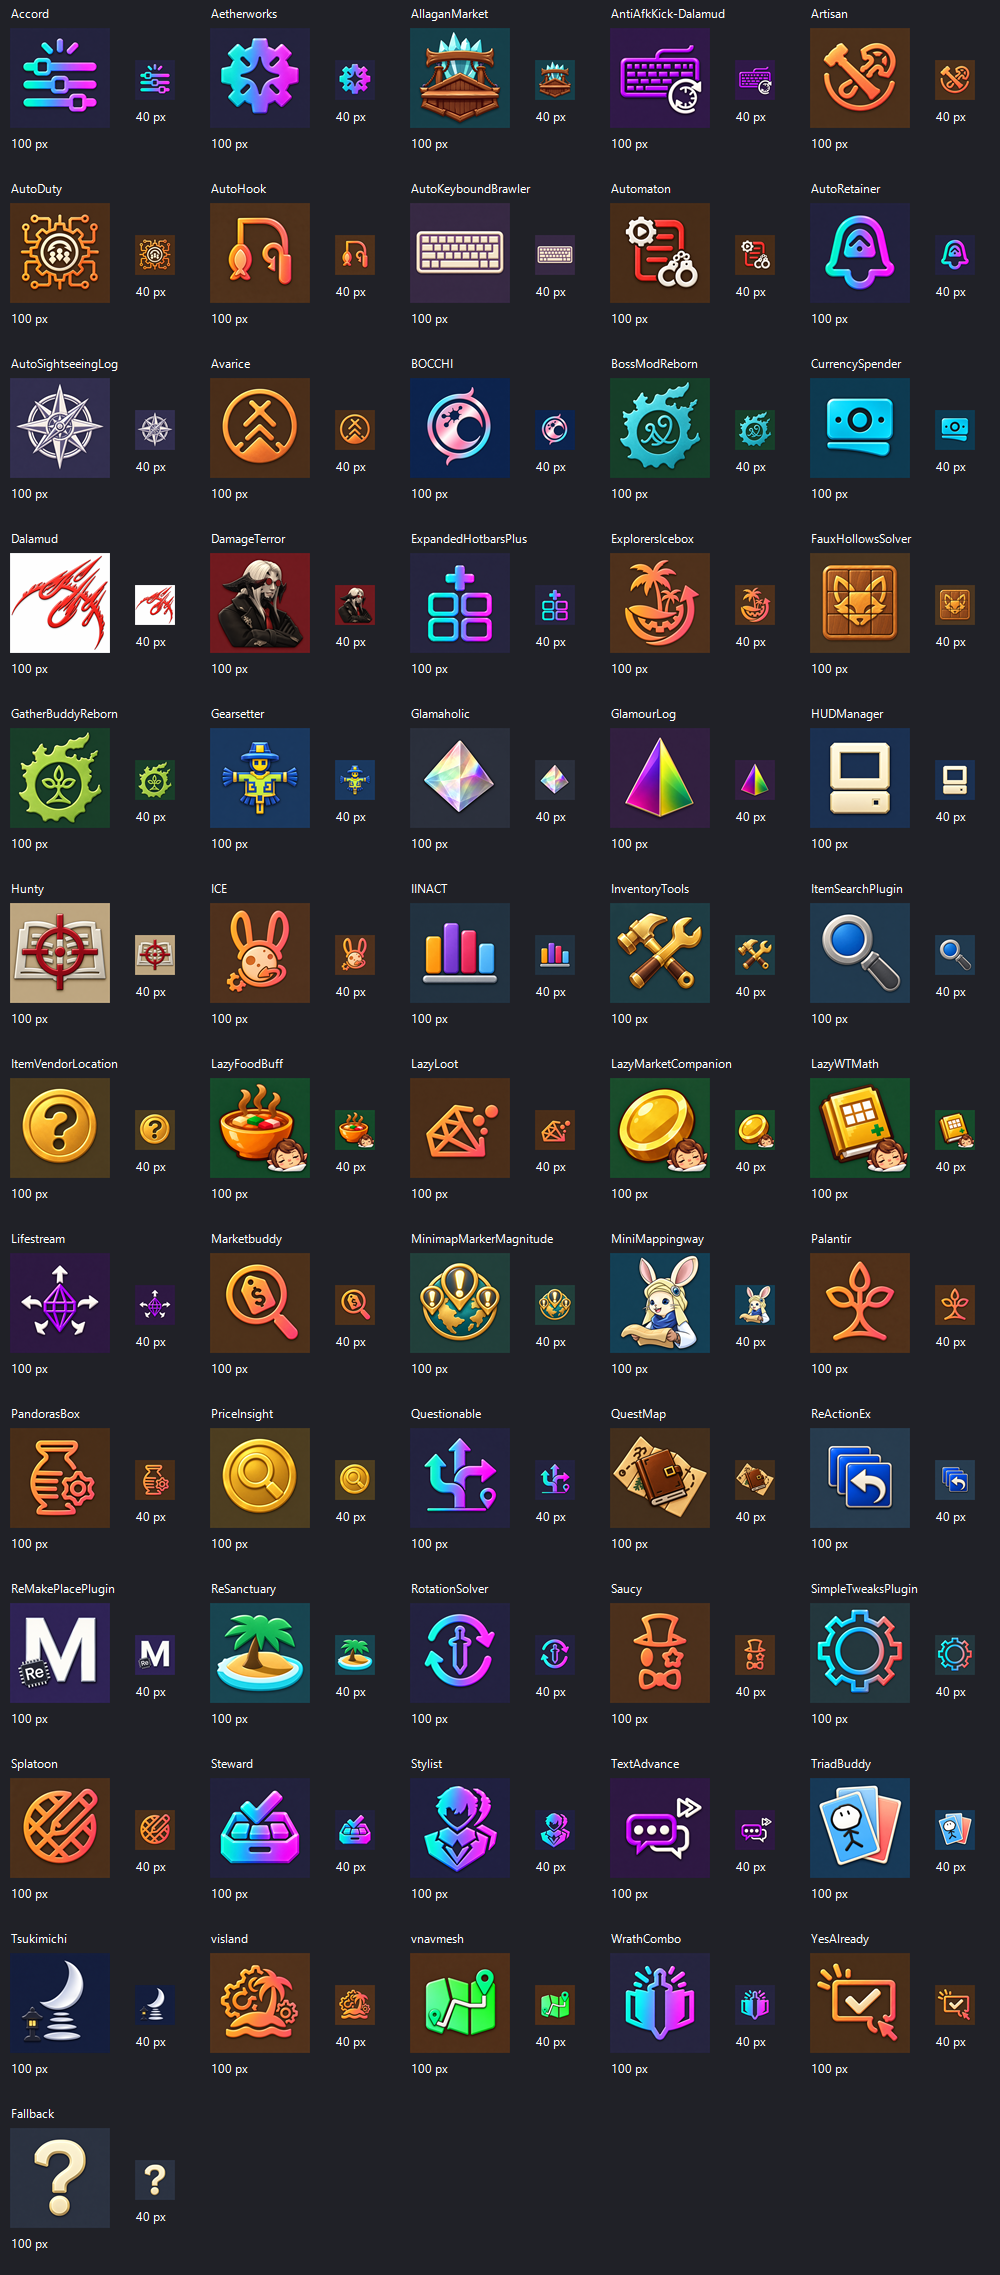
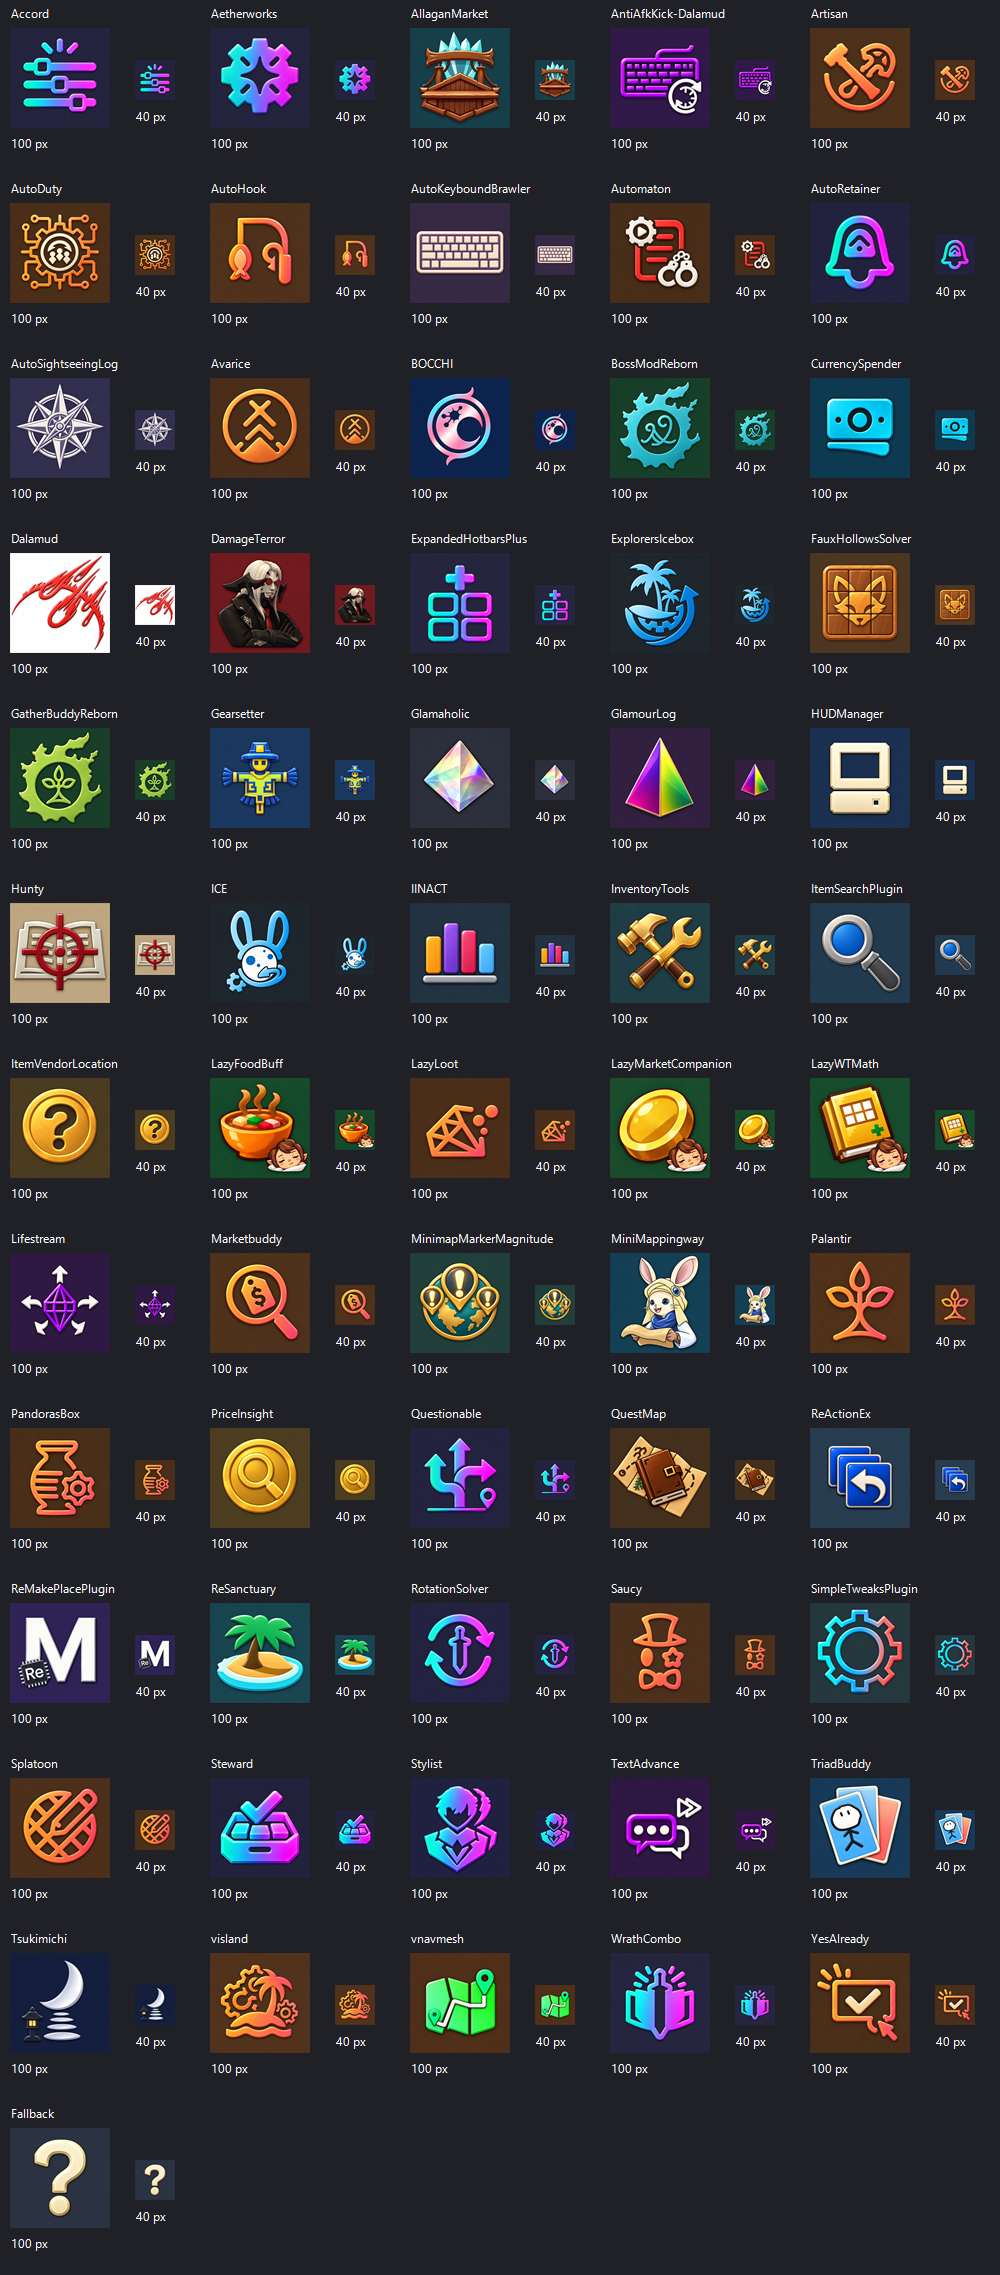
Give Ice plugins their own blue cyan artwork family

Changed region(s): [[0.589, 0.2185, 0.775, 0.3121], [0.186, 0.3745, 0.372, 0.4681]]

diff --git a/ExpandedHotbars/images/plugin-overrides/CREDITS.md b/ExpandedHotbars/images/plugin-overrides/CREDITS.md
@@ -73,7 +73,7 @@ AutoHook shares the Puni.sh brown background (#49311F). Its fishing rod, hook an
 
 ## November 2026 additions
 
-These four hotbar renderings use the built-in image generator with the original plugin icons as subject references. Auto Keybound Brawler retains its ivory keyboard, and Tsukimichi its silver crescent, reflection path and lantern. Visland and Explorer's Icebox share the Puni.sh orange/coral foreground palette and brown field. Explorer's Icebox is included ahead of installation.
+These four hotbar renderings use the built-in image generator with the original plugin icons as subject references. Auto Keybound Brawler retains its ivory keyboard, and Tsukimichi its silver crescent, reflection path and lantern. Visland uses the Puni.sh orange/coral foreground palette and brown field. Explorer's Icebox now uses Ice's own blue/cyan palette on charcoal. Explorer's Icebox is included ahead of installation.
 
 | Plugin | Source repository | Reference artwork | Source repository license |
 | --- | --- | --- | --- |
@@ -93,9 +93,11 @@ These hotbar renderings use the built-in image generator with the current plugin
 
 ## 13 November 2026 additions
 
-Generated with the built-in image tool from the original plugin icons. BOCCHI preserves its cyan/pink crescent and encircling ring on navy. Ice's Cosmic Exploration preserves the rabbit-eared moon, orbit and gear in the shared Puni.sh orange/coral palette on brown.
+Generated with the built-in image tool from the original plugin icons. BOCCHI preserves its cyan/pink crescent and encircling ring on navy. Ice's Cosmic Exploration preserves the rabbit-eared moon, orbit and gear in Ice's blue/cyan and white palette on charcoal.
 
 | Plugin | Source repository | Reference artwork | Source repository license |
 | --- | --- | --- | --- |
 | BOCCHI | [Source](https://github.com/OhKannaDuh/BOCCHI) | [Original icon](https://raw.githubusercontent.com/OhKannaDuh/BOCCHI/master/assets/icon.png) | AGPL-3.0 (text retained) |
 | Ice's Cosmic Exploration | [Source](https://github.com/LeontopodiumNivale14/Ices-Cosmic-Exploration) | [Original icon](https://puni.sh/api/plugins/icon/70) | GPL-3.0 (text retained) |
+
+Ice palette correction: Explorer's Icebox and Ice's Cosmic Exploration share icy blue/cyan foregrounds with white accents on charcoal (#242A30), based on their original artist icons. The built-in image generator applied these colour edits while retaining the hotbar motifs. Future artwork for plugins from https://puni.sh/api/repository/ice should use this family rather than the Puni.sh orange/coral family.

diff --git a/README.md b/README.md
@@ -218,6 +218,8 @@ Puni.sh brown field. Colour references and membership are recorded in
 large food, coin or journal symbols with small sleeping-character corner badges.
 The purple Nightmare utility emblems share violet. Simple Tweaks retains cyan/red
 on slate, separate from the Kaldigo palette. Dalamud uses a white background.
+Ice's plugins use icy blue/cyan with white accents on shared charcoal, based on the
+artist's source icons, including Explorer's Icebox and Ice's Cosmic Exploration.
 A common rounded-corner mask is applied
 in game, including to the original installer icons used as fallbacks.
 
